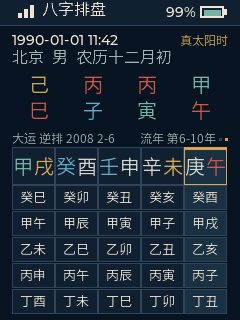
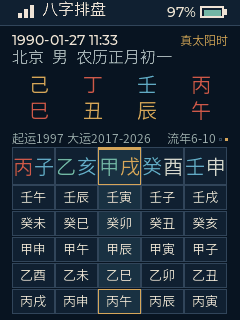
feat(bazi): show start year and selected luck range
Replace the luck window counter with the fixed 起运 year and the
selected luck's ten-year range, ending on the actual last year.
Keep the flow-page range and dots on the right.

diff --git a/docs/bazi-chart-luck-preview.html b/docs/bazi-chart-luck-preview.html
@@ -121,6 +121,16 @@
     color: var(--text);
   }
 
+  .bar-meta {
+    position: absolute;
+    left: 146px; top: 7px;
+    width: 50px;
+    text-align: right;
+    font-size: 12px;
+    line-height: 14px;
+    color: var(--text-dim);
+  }
+
   .wifi {
     position: absolute;
     left: 18px; bottom: 8px;
@@ -347,9 +357,9 @@
 <body>
 <main class="page">
   <header class="intro">
-    <h1>八字盘面 · 5 列大运 + 20px 干支 + 长按切换</h1>
+    <h1>八字盘面 · 起运与当前大运范围</h1>
     <p>当前 8 列、每格 27px，干支横向几乎贴边；改为 <strong>5 列 × 43px</strong> 后，大运干支可用 <strong>20px</strong>（与四柱同字号），流年字 13px。10 个大运保留 6 个窗口：1-5、2-6、3-7、4-8、5-9、6-10。</p>
-    <p>短按上/下继续翻流年页；<strong>长按上/下</strong>移动大运的选中项，选中项走到窗口边缘时窗口才滑动。默认选中当前大运；选中项有顶部强调条和整列浅底。确定回到当前大运和当前流年页。</p>
+    <p>顶部不再显示「大运 顺排 年份 1-5」。标题行并列显示「起运2004 大运2024-2033」：起运固定，大运范围跟着选中项走；右侧保留「流年1-5」和两个页码点。</p>
   </header>
 
   <div class="legend">
@@ -371,25 +381,25 @@
     <figure class="recommended">
       <div class="bezel"><div class="screen wide" id="s-luck-a"></div></div>
       <figcaption>
-        <div class="title">5 列 · 默认选中当前大运 <span class="pill">按你选的方案</span></div>
-        每格 43px，大运干支 20px（与四柱同字号），横向只剩约 0.5px 边距；流年字 13px。默认选中当前大运丙戌：顶部强调条 + 整列浅底；当前流年丙午仍保留强调边框。
+        <div class="title">5 列 · 起运 2004 · 当前大运 2024-2033 <span class="pill">建议</span></div>
+        标题行显示起运 2004 和选中大运丙戌的十年 2024-2033；右侧流年1-5 + 页码点。选中丙戌，当前流年丙午仍保留强调边框。
       </figcaption>
     </figure>
 
     <figure>
       <div class="bezel"><div class="screen wide" id="s-luck-b"></div></div>
       <figcaption>
-        <div class="title">长按下键后：选中第 4 步（丁亥）</div>
-        长按一次，选中条从丙戌移到丁亥；窗口仍是 1-5，标题不变。选中列的 5 个流年格用浅底贯穿；当前年份已不在选中的大运里，所以流年格不再有强调边框。继续长按，选中项走到窗口边缘时窗口才滑动。
+        <div class="title">长按下键后：选中丁亥（2034-2043）</div>
+        标题行仍是起运 2004，大运范围变为 2034-2043；右侧流年页仍是 1-5。当前年份已不在选中的大运里，所以流年格不再有强调边框。
       </figcaption>
     </figure>
   </div>
 
   <div class="callout">
-    <b>选中状态：</b>顶部 2px 强调条 + 整列浅底。默认选中的是当前大运；长按上/下每次移动一个选中项，只有选中项走到窗口边缘时窗口才滑动，所以按一次通常只看到选中条移动，标题不变。当前流年的强调边框只在选中的大运就是当前大运时出现；切到别的 大运时不再显示当前年份高亮，避免两个高亮打架。确定回到当前大运和当前流年页。<br>
-    <b>这个方案的取舍：</b>5 列 × 43px 能把大运干支做到 20px，和四柱同字号，层级最强；代价是同时少看一个大运，窗口有 6 个位置。若更想多看一列，可以回到 6 列 × 36px + 16px。大运用长按、流年用短按，两套翻页不会打架。<br>
-    <b>按键冲突：</b>现在长按下键是回编辑页；改成“下一个大运”后，这个捷径取消，但长按确定本来就会回编辑页，所以编辑入口还在。如果不想丢长按下键的回编辑快捷，也可以改成「长按上 = 上一个大运、长按下 = 下一个大运、长按确定 = 编辑」。<br>
-    <b>窗口与选中项：</b>标题的 1-5、2-6 … 6-10 是窗口位置，不是选中项；选中项由顶部强调条表示。选中项走到窗口左右边缘时窗口才滑动一格，6 个窗口都能走到。
+    <b>我的建议：</b>两个事实都放在标题行最省空间：`起运2004 大运2024-2033`，右侧 `流年1-5` + 页码点。比原来的 `大运 顺排 2004 1-5` 更有信息量，也不会多占一行。<br>
+    <b>结束年怎么写：</b>起运 2004 的十年是 2004-2013，下一个大运从 2014 起。你举的 2004-2014 是「两个起运点之间」的写法，容易让人以为 11 年。建议写实际最后一年（2004-2013），或者写「2004 起十年」；如果一定要和下一个起运年对齐，再写 2004-2014。<br>
+    <b>空间与取舍：</b>12px 下 `起运2004 大运2024-2033` 约 135px，右侧 `流年1-5` + 两个页码点还能放下；写成「当前大运的流年范围：2024-2033」会太长。顺排/逆排和窗口 1-5 一并去掉；选中条表示当前大运，5 列 + 大运范围已经够定位。<br>
+    <b>流年页码：</b>保留 `流年1-5` 和两个页码点，否则不知道看的是每个大运的前五年还是后五年。
   </div>
 </main>
 
@@ -426,11 +436,12 @@ function charEl(ch) {
   return `<span class="${cls}">${ch}</span>`;
 }
 
-function shell() {
+function shell(startYear) {
   return `
     <div class="bar">
       <div class="wifi"><i></i><i></i><i></i></div>
       <div class="bar-title">八字排盘</div>
+      <div class="bar-meta">${startYear ? "起运" + startYear : ""}</div>
       <div class="battery"><div class="battery-frame"><span class="battery-fill"></span></div>99</div>
     </div>
     <div class="date">1990-06-24 12:04</div>
@@ -479,9 +490,9 @@ function pageDots(active) {
 
 function chart(el, opts) {
   const wide = opts.cellW >= 36;
-  el.innerHTML = shell() + `
-    <div class="hdr hdr-left" style="width:${wide ? 120 : 130}px">${opts.headerLeft}</div>
-    <div class="hdr hdr-right" style="left:${wide ? 132 : 140}px;width:${wide ? 84 : 88}px">${opts.headerRight}</div>
+  el.innerHTML = shell(opts.startYear) + `
+    <div class="hdr hdr-left" style="width:${wide ? 144 : 130}px">${opts.headerLeft}</div>
+    <div class="hdr hdr-right" style="left:${wide ? 156 : 140}px;width:${wide ? 60 : 88}px">${opts.headerRight}</div>
     ${opts.dots === null ? "" : pageDots(opts.dots)}
     ${luckCells(opts.luck, opts.cellW, opts.currentLuck, opts.selectedLuck, wide)}
     ${flowCells(opts.flow, opts.cellW, opts.currentFlow, opts.currentCol, opts.selectedLuck, opts.flowTop, opts.flowStep, opts.flowHeight)}
@@ -520,8 +531,8 @@ chart(document.getElementById("s-luck-a"), {
   currentFlow: 2,
   currentCol: 2,
   selectedLuck: 2,
-  headerLeft: "大运 顺排 2004 1-5",
-  headerRight: "流年 第1-5年",
+  headerLeft: "起运2004 大运2024-2033",
+  headerRight: "流年1-5",
   dots: 0,
   footer: false,
 });
@@ -537,8 +548,8 @@ chart(document.getElementById("s-luck-b"), {
   currentFlow: -1,
   currentCol: -1,
   selectedLuck: 3,
-  headerLeft: "大运 顺排 2004 1-5",
-  headerRight: "流年 第1-5年",
+  headerLeft: "起运2004 大运2034-2043",
+  headerRight: "流年1-5",
   dots: 0,
   footer: false,
 });

diff --git a/main/apps/bazi/app_bazi.cc b/main/apps/bazi/app_bazi.cc
@@ -234,13 +234,13 @@ void initialize_chart_position() {
 void refresh_luck_table() {
     if (!s_screen || !s_has_chart) return;
     char text[48];
-    std::snprintf(text, sizeof(text), "大运 %s %d %u-%u",
-                  s_chart.luck.forward ? "顺排" : "逆排",
-                  s_chart.luck.step[s_luck_first].start_year,
-                  (unsigned)(s_luck_first + 1),
-                  (unsigned)(s_luck_first + kVisibleLuck));
+    const int current_start = s_chart.luck.step[s_selected_luck].start_year;
+    std::snprintf(text, sizeof(text), "起运%d 大运%d-%d",
+                  s_chart.luck.step[0].start_year,
+                  current_start,
+                  current_start + BAZI_YEARS_PER_LUCK - 1);
     set_text(s_luck_header_left, text);
-    std::snprintf(text, sizeof(text), "流年 第%u-%u年",
+    std::snprintf(text, sizeof(text), "流年%u-%u",
                   (unsigned)(s_flow_row + 1),
                   (unsigned)(s_flow_row + kVisibleRows));
     set_text(s_luck_header_right, text);
@@ -315,9 +315,9 @@ void build_chart() {
                                 x, 100, 54, 24, LV_TEXT_ALIGN_CENTER);
     }
     s_luck_header_left = label(s_screen, "", &ganzhi_font_12, UI_TEXT_DIM,
-                               12, 132, 120, 14);
+                               12, 132, 144, 14);
     s_luck_header_right = label(s_screen, "", &ganzhi_font_12, UI_TEXT_DIM,
-                                132, 132, 84, 14, LV_TEXT_ALIGN_RIGHT);
+                                156, 132, 60, 14, LV_TEXT_ALIGN_RIGHT);
     for (int dot = 0; dot < 2; ++dot) {
         lv_obj_t *box = lv_obj_create(s_screen);
         lv_obj_remove_flag(box, LV_OBJ_FLAG_SCROLLABLE);

diff --git a/tests/test_bazi_ui.py b/tests/test_bazi_ui.py
@@ -172,7 +172,15 @@ assert "open_editor" not in chart_key, (
 assert "reset_luck_window()" in chart_key
 reset_window = function_body("reset_luck_window")
 assert "BAZI_LUCK_COUNT - kVisibleLuck" in reset_window
-assert '"大运 %s %d %u-%u"' in function_body("refresh_luck_table")
+refresh_body = function_body("refresh_luck_table")
+assert '"起运%d 大运%d-%d"' in refresh_body
+assert '"流年%u-%u"' in refresh_body
+assert "s_chart.luck.step[0].start_year" in refresh_body
+assert "s_chart.luck.step[s_selected_luck].start_year" in refresh_body
+assert "BAZI_YEARS_PER_LUCK - 1" in refresh_body
+assert '"大运 %s %d %u-%u"' not in source
+assert "12, 132, 144, 14" in source
+assert "156, 132, 60, 14" in source
 
 # Selected luck: the cursor moves first; the window follows only at an edge.
 assert "s_selected_luck" in source

diff --git a/docs/CURRENT.md b/docs/CURRENT.md
@@ -29,10 +29,10 @@
 
 - 版本：`1.0.0`
 - 当前源码使用标准语义化版本号，作为这套定制固件的首个稳定基线。
-- 本地应用镜像：3,422,960 字节
[1 lines of base64/hex data omitted]
-- 本地完整镜像：3,488,496 字节
[1 lines of base64/hex data omitted]
+- 本地应用镜像：3,422,912 字节
[1 lines of base64/hex data omitted]
+- 本地完整镜像：3,488,448 字节
[1 lines of base64/hex data omitted]
 - 上述为本地非公开发布构建；发布前仍需按对应配置重新构建并复核。
 
 ## 验收状态
@@ -47,7 +47,7 @@
   Wi‑Fi 自动连接与首页加载正常。
 - 真机通过启动、Wi-Fi、首页、八字排盘、分钟逐分钟调整、31 日选择、月份切换日期收敛和流年滚动测试。
 - 八字出生资料页改为单页 8 行分区布局：日期/时间合并为分段编辑、历法按公历/农历/闰月三态循环、出生地循环同步经度、固定排盘按钮，错误提示移入页脚。真机通过默认布局、日期分段编辑、出生地切换、历法三态（含 1990 年闰五月）、确定与长按下键排盘、从命盘返回编辑页和退出启动器检查；真机截图见 `docs/bazi-editor-device.png`。实体按键手感和视觉观感仍需人工确认。
-- 八字盘面改为 5 列大运 × 5 行流年：大运干支 20px（与四柱同字号），流年 13px；默认选中当前大运，长按上/下移动选中项，选中项到窗口边缘时窗口才滑动（1-5…6-10），短按上/下翻流年页，确定回到当前大运与当前流年页。选中项有顶部强调条和整列浅底；当前流年的强调边框只在选中当前大运时出现。移除底部两行按键提示，用「流年」标题右侧的两个页码点表示流年页位。真机通过默认选中、长按下键移动选中项与窗口滑到 2-6、确定复位、短按翻流年页和当前年高亮检查；长按上键为对称的上一个选中项，实体按键待确认。真机截图见 `docs/bazi-chart-flow-device.png`。盘面空闲堆约 102–104 KB、最大连续块约 72–78 KB。
+- 八字盘面改为 5 列大运 × 5 行流年：大运干支 20px（与四柱同字号），流年 13px；标题行显示起运和选中大运的十年（如 `起运1997 大运2017-2026`，结束年为实际最后一年），右侧显示 `流年6-10` 和页码点。默认选中当前大运，长按上/下移动选中项，选中项到窗口边缘时窗口才滑动，短按上/下翻流年页，确定回到当前大运与当前流年页。选中项有顶部强调条和整列浅底；当前流年的强调边框只在选中当前大运时出现。移除底部两行按键提示。真机通过默认选中、长按下键移动选中项并更新大运范围到 2027-2036、确定复位、短按翻流年页和当前年高亮检查；长按上键为对称的上一个选中项，实体按键待确认。真机截图见 `docs/bazi-chart-flow-device.png`。盘面空闲堆约 102–104 KB、最大连续块约 72–78 KB。
 - 首页仅在实际交节当天显示“今日交X”；当前 2026-11-23 不显示持续节气，并显示“距大雪 14天”。
 - 真机通过万年历两行大字月历、每格日干支、选中农历摘要、日期详情、交节日、年月选择、五周/六周月份窗口和返回今天测试。
 - 真机通过日期详情十二时辰 `6×2` 布局、时干在上/时支在下、无时辰名称标签、
